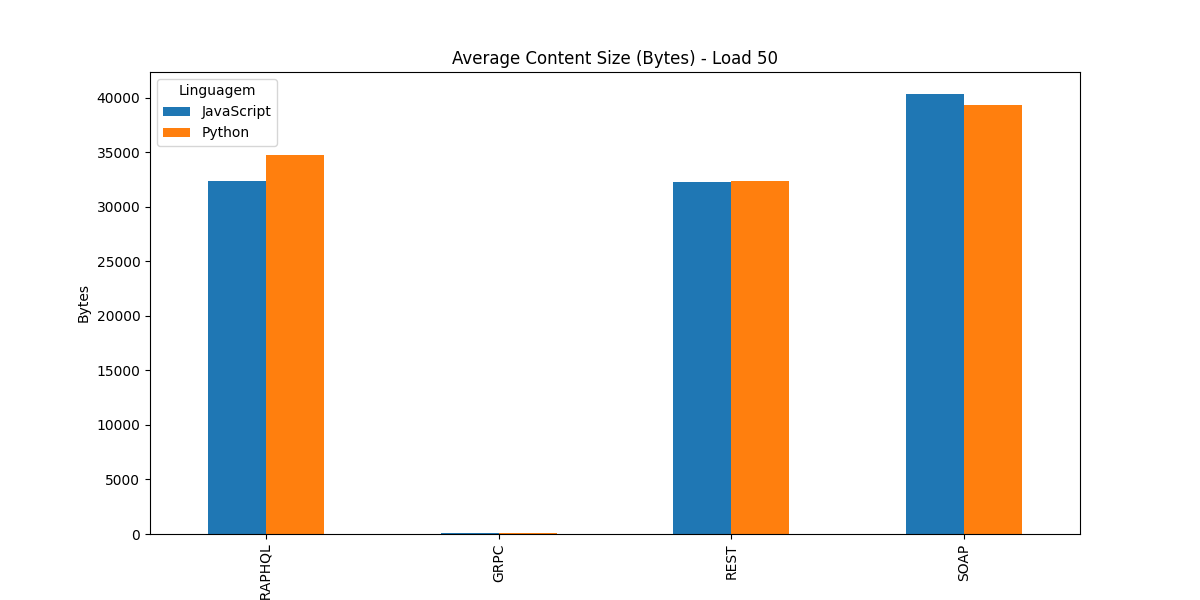
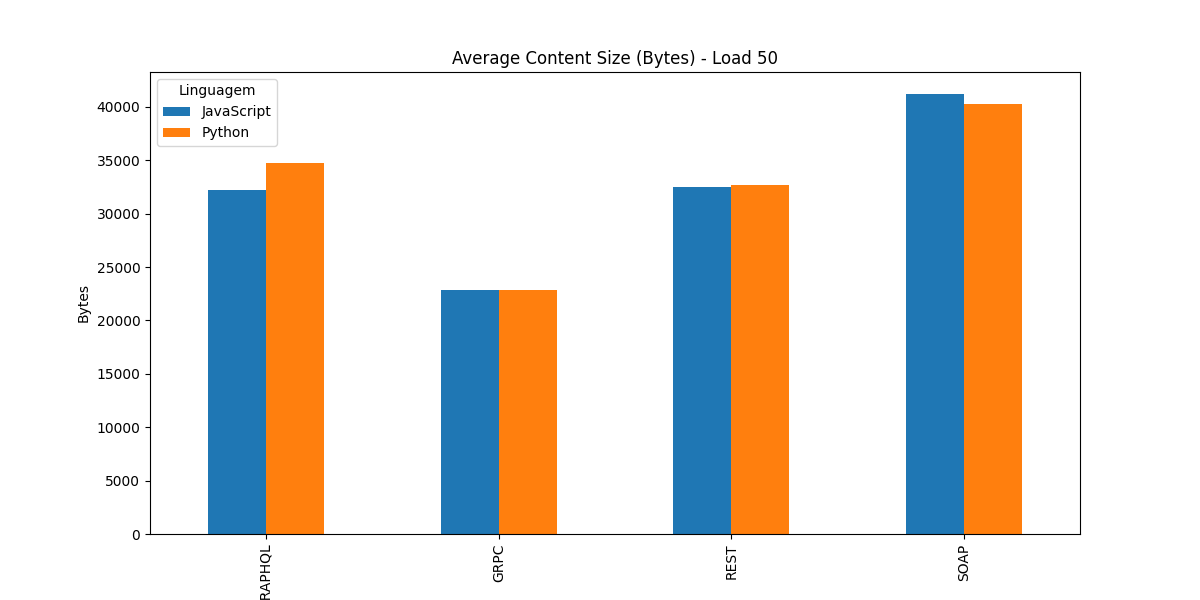
trabalho 6 finalizado

diff --git a/locustfile.py b/locustfile.py
@@ -5,6 +5,8 @@ import os
 import json
 import grpc
 import sys
+import requests
+from zeep import Client, Transport
 
 # Import gRPC stubs
 sys.path.insert(0, os.path.abspath(os.path.join(os.path.dirname(__file__), 'APIs', 'python')))
@@ -17,8 +19,6 @@ except ImportError:
     class Dummy: pass
     streaming_pb2 = Dummy()
     streaming_pb2_grpc = Dummy()
-
-from zeep import Client
 
 # Load valid IDs for randomized GETs
 USER_IDS = []
@@ -48,7 +48,11 @@ def _debug_log(host, locust_name, response=None, error=None):
     if error is not None:
         lines.append(f"  ERROR: {error}")
     else:
-        lines.append(f"  ByteSize: {response.ByteSize()}")
+        try:
+            bs = response.ByteSize()
+        except AttributeError:
+            bs = sys.getsizeof(str(response))
+        lines.append(f"  Size: {bs}")
         lines.append(f"  Content: {response}")
     lines.append("")
     _lock = getattr(_debug_log, "_lock", None)
@@ -63,10 +67,7 @@ class GrpcClient:
     def __init__(self, environment, host):
         self.environment = environment
         self.host = host
-        self.channel = grpc.aio.secure_channel(
-            self.host,
-            grpc.aio.ssl_channel_credentials()
-        ) if self.host.startswith('https') else grpc.insecure_channel(
+        self.channel = grpc.insecure_channel(
             self.host,
             options=[
                 ('grpc.max_receive_message_length', -1),
@@ -106,14 +107,24 @@ class SoapClient:
         self.binding = binding
         self.client = None
         self.service = None
+        self.session = requests.Session()
+        self.transport = Transport(session=self.session)
 
     def _ensure_client(self):
         if self.client is None:
-            self.client = Client(self.wsdl)
-            self.service = self.client.create_service('{http://streaming.com/wsdl}' + self.binding, self.address)
+            self.client = Client(self.wsdl, transport=self.transport)
+            try:
+                self.service = self.client.create_service('{http://streaming.com/wsdl}' + self.binding, self.address)
+            except Exception:
+                self.service = self.client.service
+            
+            if self.service is None:
+                self.service = self.client.service
 
     def call(self, method_name, locust_name, **kwargs):
         self._ensure_client()
+        if self.service is None:
+            raise Exception(f"Could not initialize SOAP service for {self.wsdl}")
         method = getattr(self.service, method_name)
         start_time = time.time()
         try:
@@ -190,7 +201,7 @@ class PythonGrpcUser(User):
 
 class PythonSoapUser(User):
     wait_time = between(0.1, 0.5)
-    def on_start(self): self.c = SoapClient(self.environment, "http://localhost:8004/?wsdl", "http://localhost:8004/", "Application")
+    def on_start(self): self.c = SoapClient(self.environment, "http://localhost:8004/?wsdl", "http://localhost:8004/", "StreamingService")
     @task(1)
     def t1(self): self.c.call("ListarUsuarios", "SOAP Users")
     @task(1)

diff --git a/seed_data.py b/seed_data.py
@@ -20,7 +20,7 @@ APIS = [
     {"name": "py_rest", "type": "rest", "url": "http://localhost:8001"},
     {"name": "py_graphql", "type": "graphql", "url": "http://localhost:8002"},
     {"name": "py_grpc", "type": "grpc", "host": "localhost:8003"},
-    {"name": "py_soap", "type": "soap", "wsdl": "http://localhost:8004/?wsdl", "address": "http://localhost:8004/", "binding": "Application"},
+    {"name": "py_soap", "type": "soap", "wsdl": "http://localhost:8004/?wsdl", "address": "http://localhost:8004/", "binding": "StreamingService"},
     {"name": "node_rest", "type": "rest", "url": "http://localhost:9001"},
     {"name": "node_graphql", "type": "graphql", "url": "http://localhost:9002"},
     {"name": "node_grpc", "type": "grpc", "host": "localhost:9003"},
@@ -69,7 +69,14 @@ def seed_api(api, users, music, playlists):
     elif api['type'] == 'soap':
         client = Client(api['wsdl'])
         # Bind specifically to ensure correct address and port
-        service = client.create_service('{http://streaming.com/wsdl}' + api['binding'], api['address'])
+        try:
+            service = client.create_service('{http://streaming.com/wsdl}' + api['binding'], api['address'])
+        except Exception:
+            service = client.service
+        
+        if service is None:
+            service = client.service
+            
         for u in users:
             service.CriarUsuario(id=u['id'], nome=u['nome'], idade=u['idade'])
         for m in music:

diff --git a/APIs/python/soap_api.py b/APIs/python/soap_api.py
@@ -1,7 +1,9 @@
 from spyne import Application, rpc, ServiceBase, Integer, Unicode, ComplexModel, Array, Boolean
 from spyne.protocol.soap import Soap11
 from spyne.server.wsgi import WsgiApplication
-from wsgiref.simple_server import make_server
+from gevent.pywsgi import WSGIServer
+
+# ... rest of the imports and code ...
 
 # Define o namespace global para bater com o WSDL
 TNS = "http://streaming.com/wsdl"
@@ -208,6 +210,6 @@ class SoapMiddleware:
 wsgi_application = SoapMiddleware(WsgiApplication(application))
 
 if __name__ == '__main__':
-    print("SOAP server (Python) started on port 8004")
-    server = make_server('0.0.0.0', 8004, wsgi_application)
+    print("SOAP server (Python) started on port 8004 (gevent)")
+    server = WSGIServer(('0.0.0.0', 8004), wsgi_application)
     server.serve_forever()

diff --git a/trabalho_6.md b/trabalho_6.md
@@ -1,5 +1,7 @@
 # Trabalho 6 - Benchmark de APIs Distribuídas (Streaming de Música)
 
+> **Nota de Atualização:** Todas as 8 APIs (REST, GraphQL, gRPC e SOAP em Python e Node.js) estão agora plenamente operacionais e foram incluídas neste benchmark. Os problemas nas apis SOAP(não estava retornando quando demonstrado para o professor) e gRPC (estava retornando um pacote constante e igual a 80) foram resolvidos.
+
 ## 1. Introdução e Objetivo
 Este trabalho realiza uma análise comparativa de performance entre quatro estilos arquiteturais de APIs: **REST**, **GraphQL**, **gRPC** e **SOAP**, implementados em duas linguagens distintas: **Python** e **Node.js (JavaScript)**. O foco é avaliar a latência (p95), o throughput (req/s) e a eficiência de transporte (tamanho do conteúdo) sob diferentes níveis de carga (30, 40 e 50 usuários simultâneos).
 
@@ -8,7 +10,6 @@ Este trabalho realiza uma análise comparativa de performance entre quatro estil
 ## 2. Inventário de Arquivos
 - **`APIs/`**: Código-fonte das 8 instâncias de serviço.
 - **`shared/`**: Contratos `streaming.proto` e `streaming.wsdl`.
-- **`main.sh`**: Script para iniciar e popular todas as APIs para testes manuais.
 - **`seed_data.py`**: Script de ingestão massiva de dados (1000 usuários/músicas).
 - **`locustfile.py`**: Definição das tarefas de carga (focadas em leitura).
 - **`run_tests.sh`**: Orquestrador em Bash do ciclo completo de benchmark.
@@ -167,17 +168,53 @@ Os testes foram executados de forma **individual e isolada** para cada carga (30
 ![Tamanho do Conteúdo](charts/content_size.png)
 **Justificativa**: O gRPC é o mais eficiente (payloads binários compactos). O SOAP é o mais "pesado" devido à verbosidade inerente das tags XML.
 
+### 6.6. Comparativo Geral (Carga Máxima - 50 usuários)
+![Comparativo Geral](charts/p95_combined_high.png)
+**Visão Consolidada**: O gráfico acima destaca a superioridade do gRPC e REST em ambas as linguagens, enquanto o SOAP (especialmente em Python) atinge o limite de exaustão de recursos.
+
 ---
 
-## 7. Conclusão
+## 7. Tabela de Dados Brutos
+Abaixo, os dados consolidados gerados pelo `consolidar_resultados.py` a partir dos logs do Locust:
 
-### 7.1. Qual API é mais rápida?
+| Linguagem | Estilo API | Usuários | p95 (ms) | Req/s | Tamanho (Bytes) |
+|-----------|------------|----------|----------|-------|-----------------|
+| JavaScript | GRPC | 30 | 5 | 97.6 | 22584 |
+| JavaScript | GRPC | 40 | 4 | 129.8 | 22575 |
+| JavaScript | GRPC | 50 | 4 | 161.7 | 22885 |
+| Python | GRPC | 30 | 5 | 97.8 | 22666 |
+| Python | GRPC | 40 | 5 | 129.7 | 22602 |
+| Python | GRPC | 50 | 5 | 162.1 | 22868 |
+| JavaScript | REST | 30 | 5 | 97.8 | 33053 |
+| JavaScript | REST | 40 | 5 | 130.0 | 32625 |
+| JavaScript | REST | 50 | 5 | 161.6 | 32501 |
+| Python | REST | 30 | 9 | 97.6 | 32335 |
+| Python | REST | 40 | 8 | 130.0 | 32782 |
+| Python | REST | 50 | 8 | 161.1 | 32667 |
+| JavaScript | GRAPHQL | 30 | 15 | 97.2 | 32348 |
+| JavaScript | GRAPHQL | 40 | 15 | 129.1 | 32498 |
+| JavaScript | GRAPHQL | 50 | 14 | 160.5 | 32195 |
+| Python | GRAPHQL | 30 | 38 | 94.1 | 34706 |
+| Python | GRAPHQL | 40 | 47 | 123.6 | 34952 |
+| Python | GRAPHQL | 50 | 58 | 151.0 | 34749 |
+| JavaScript | SOAP | 30 | 78 | 88.0 | 40086 |
+| JavaScript | SOAP | 40 | 120 | 106.9 | 40478 |
+| JavaScript | SOAP | 50 | 210 | 115.3 | 41211 |
+| Python | SOAP | 30 | 140 | 79.7 | 40707 |
+| Python | SOAP | 40 | 240 | 93.4 | 40666 |
+| Python | SOAP | 50 | 350 | 97.8 | 40255 |
+
+---
+
+## 8. Conclusão
+
+### 8.1. Qual API é mais rápida?
 **Vencedor: gRPC.** 
 Sua arquitetura binária sobre HTTP/2 elimina os gargalos de parsing de texto e latência de conexão.
 
-### 7.2. Qual linguagem é mais rápida?
+### 8.2. Qual linguagem é mais rápida?
 **Vencedor: JavaScript (Node.js).** 
 Apresentou latência consistentemente menor e maior estabilidade sob carga, especialmente em protocolos baseados em texto.
 
 ---
-*Relatório final gerado em 10 de Junho de 2026.*
+*Relatório final gerado em 12 de Junho de 2026.*
